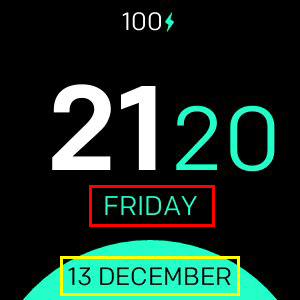
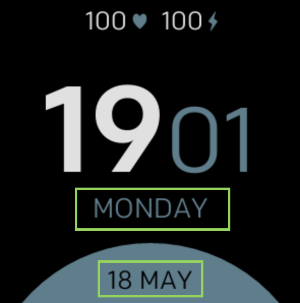
new version of the Minimal Design clock face

Changed region(s): [[0.06, 0.33, 0.93, 1.0], [0.15, 0.27, 0.54, 0.57], [0.27, 0.03, 0.72, 0.12]]

diff --git a/settings/index.jsx b/settings/index.jsx
@@ -1,8 +1,5 @@
 import { gettext } from "i18n";
-import {  DISPLAY_ELEMENTS,
-          KEY_COLOR,
-          KEY_DISPLAY_ELEMENT,
-          KEY_DISPLAY_ELEMENT_FLAG,
+import {  KEY_COLOR,
           KEY_WEEKDAY_FORMAT,
           KEY_DATE_FORMAT } from "../common/constants";
 
@@ -14,22 +11,15 @@ function Settings(props) {
         <ColorSelect
           settingsKey={KEY_COLOR}
           colors={[
-            {color: '#24FEC9'},
-            {color: '#FFCC00'},
-            {color: '#FE2551'},
+            {color: '#607D8B'},
+            {color: '#FFC107'},
+            {color: '#795548'},
+            {color: '#7CB342'},
+            {color: '#F06292'},
+            {color: '#673AB7'},
+            {color: '#EF5350'},
+            {color: '#E0E0E0'},
           ]}
-        />
-      </Section>
-      <Section
-        title={<Text bold align="center">{ gettext("visualization") }</Text>}>
-        <Toggle
-          settingsKey={KEY_DISPLAY_ELEMENT_FLAG}
-          label={ gettext("displayelementflaglabel") }
-        />
-        <Select
-          label={ gettext("displayelementlabel") }
-          settingsKey={KEY_DISPLAY_ELEMENT}
-          options={DISPLAY_ELEMENTS.map(name => ({ name: gettext(name), value: name }))}
         />
       </Section>
       <Section

diff --git a/app/src/ui.js b/app/src/ui.js
@@ -28,7 +28,9 @@ export default class UI {
     const color = this.fileStore.getValue(KEY_COLOR);
     this.updateColor(color);
     this.setState(KEY_DISPLAY_ELEMENT, this.fileStore.getValue(KEY_DISPLAY_ELEMENT) || DISPLAY_ELEMENT_BATTERY);
-    this.setState(KEY_DISPLAY_ELEMENT_FLAG, this.fileStore.getValue(KEY_DISPLAY_ELEMENT_FLAG) || true);    
+    this.setState(KEY_DISPLAY_ELEMENT_FLAG, this.fileStore.getValue(KEY_DISPLAY_ELEMENT_FLAG) || true);  
+    this.setState(KEY_DISPLAY_ELEMENT, this.fileStore.getValue(KEY_DISPLAY_ELEMENT) || DISPLAY_ELEMENT_HEART);
+    this.setState(KEY_DISPLAY_ELEMENT_FLAG, this.fileStore.getValue(KEY_DISPLAY_ELEMENT_FLAG) || true);  
   }
 
   setState(key, data, save) {    
@@ -54,12 +56,13 @@ export default class UI {
           switch (data) {
             case DISPLAY_ELEMENT_HEART:
               HeartRate.instance.start();
-              Battery.instance.hide();
-              break;
-            default:
               Battery.run();
-              HeartRate.instance.stop();
+              // Battery.instance.hide();
               break;
+            // default:
+              // Battery.run();
+              // HeartRate.instance.stop();
+              // break;
           }
         } 
     }

diff --git a/resources/styles.css b/resources/styles.css
@@ -9,7 +9,7 @@
   font-family: Colfax-Medium;
 }
 .colored {
-  fill: #24FEC9;
+  fill: #607D8B;
 }
 
 text {
@@ -21,13 +21,13 @@ text {
   text-anchor: end;
   x: 55%;/*37%-30;*/
   y: 30%+80;
-  fill: white;
+  fill: #E0E0E0;
 }
 
 #minutes {
   font-size: 90;
   text-anchor: start;
-  x: 55%+5;/*67%+15;*/
+  x: 54%+3;/*67%+15;*/
   y: 30%+80;
 }
 
@@ -46,22 +46,34 @@ text {
   fill: black;
 }
 
-.top-element-text {
+.heartrate-element-text {
   font-size: 25;
   text-anchor: end;
-  x: 50%+10;
+  x: 39%+10;
   y: 10%;
-  fill: white;
+  fill: #E0E0E0;
 }
 
-.top-element-icon {
+.battery-element-text {
+  font-size: 25;
+  text-anchor: end;
+  x: 64%+10;
+  y: 10%;
+  fill: #E0E0E0;
+}
+
+.heartrate-element-icon {
   opacity: 1;
   width: 15;
   height: 20;
-  x: 50%+12;
+  x: 40%+12;
   y: 10%-18;
 }
-#heartrate-icon {
-  width: 20;
-  x: 50%+15;
+
+.battery-element-icon {
+  opacity: 1;
+  width: 15;
+  height: 20;
+  x: 64%+12;
+  y: 10%-18;
 }

diff --git a/common/constants.js b/common/constants.js
@@ -8,11 +8,12 @@ export const DISPLAY_ELEMENT_BATTERY = "battery";
 export const DISPLAY_ELEMENT_HEART = "heartrate";
 
 export const DEFAULT_MODEL = {
-  [KEY_COLOR]: "#24FEC9",
+  [KEY_COLOR]: "#607D8B",
   [KEY_DISPLAY_ELEMENT]: DISPLAY_ELEMENT_BATTERY,
+  [KEY_DISPLAY_ELEMENT]: DISPLAY_ELEMENT_HEART,
   [KEY_DISPLAY_ELEMENT_FLAG]: true,
   [KEY_WEEKDAY_FORMAT]: "dddd",
-  [KEY_DATE_FORMAT]: "DD MMMM",
+  [KEY_DATE_FORMAT]: "DD MMM",
 };
 
 // Note: don't reorder these as settings are saved based on array index.

diff --git a/README.md b/README.md
@@ -24,13 +24,6 @@ Minimal clock with support for:
 - [:cn: Simplified Chinese](./docs/zh/README.md)
 - [:cn: Traditional Chinese](./docs/zh-TW/README.md)
 
-## Label mapping
-
-- **Format 1 (red)**
-- **Format 2 (yellow)**
-
-![Label mapping](labels.png)
-
 ## List of all available date formats
 | Format | Output           | Description                           |
 | ------ | ---------------- | ------------------------------------- |
@@ -61,4 +54,4 @@ Minimal clock with support for:
 | `a`    | am pm            |                                       |
 
 ## Credits
-Made with :heart: by [Nicolò Rebaioli](https://www.rebaioli.altervista.org)
+Made with :heart: by [Nicolò Rebaioli](https://www.rebaioli.altervista.org) who inspired my to edit this clock face.
